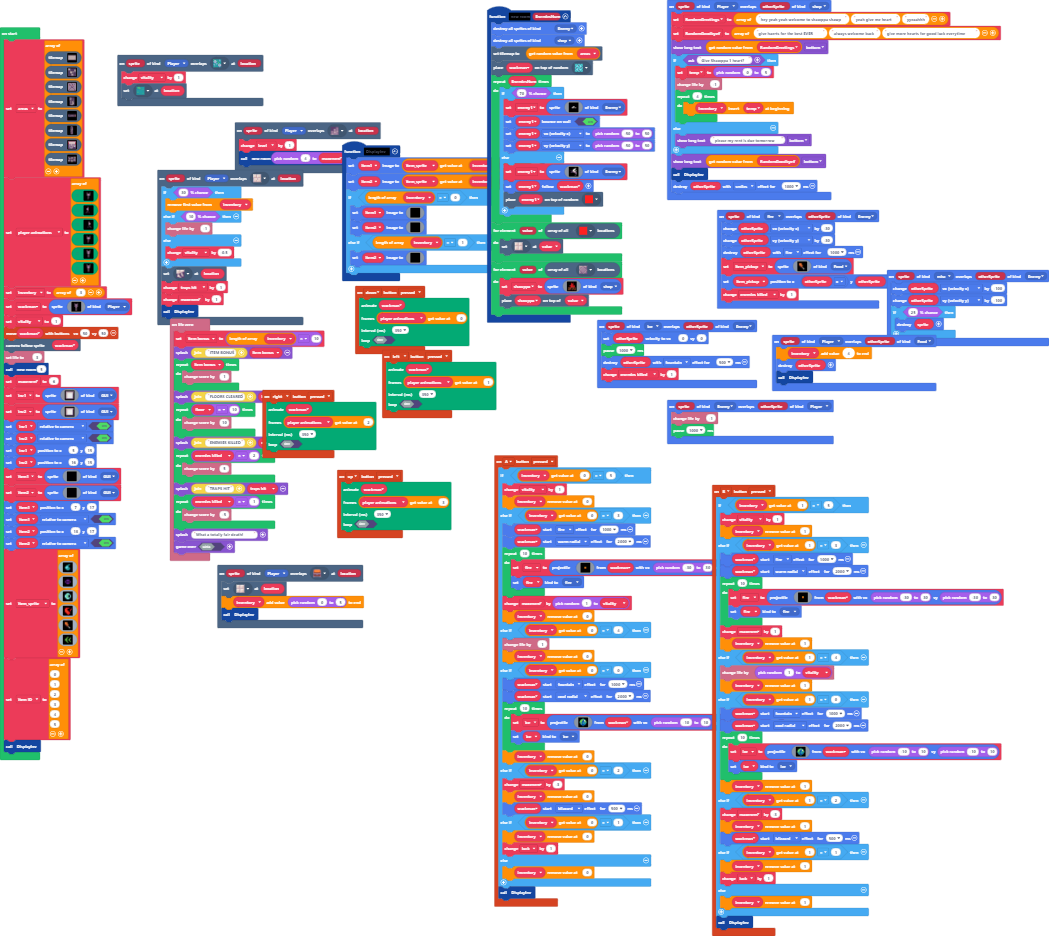
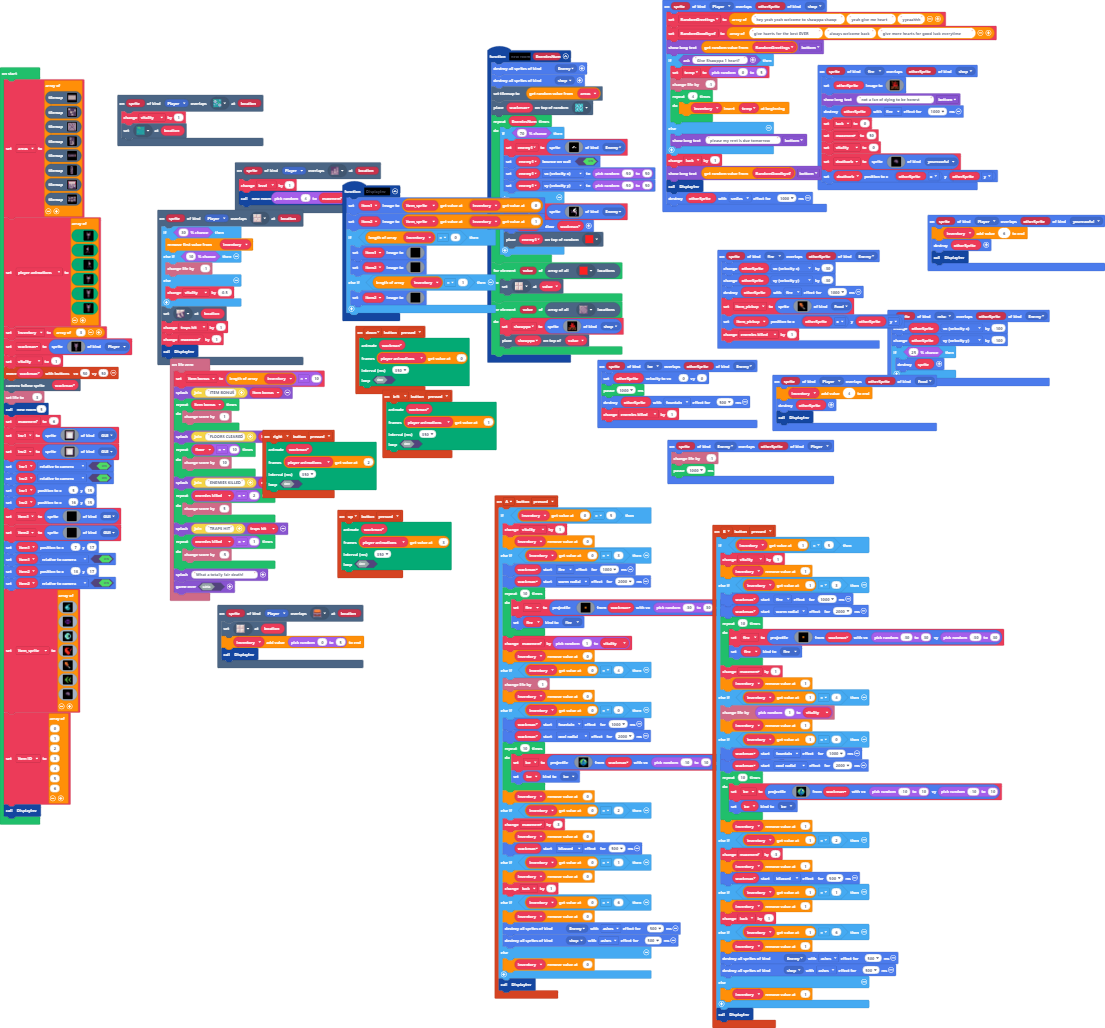
subatomic levels of trolling

diff --git a/main.ts b/main.ts
@@ -4,6 +4,7 @@ namespace SpriteKind {
     export const ice = SpriteKind.create()
     export const misc = SpriteKind.create()
     export const shop = SpriteKind.create()
+    export const youreawful = SpriteKind.create()
 }
 controller.up.onEvent(ControllerButtonEvent.Pressed, function () {
     animation.runImageAnimation(
@@ -26,6 +27,7 @@ sprites.onOverlap(SpriteKind.Player, SpriteKind.shop, function (sprite, otherSpr
     } else {
         game.showLongText("please my rent is due tomorrow", DialogLayout.Bottom)
     }
+    luck += 1
     game.showLongText(RandomGoodbyes._pickRandom(), DialogLayout.Bottom)
     DisplayInv()
     otherSprite.destroy(effects.smiles, 1000)
@@ -95,6 +97,10 @@ controller.B.onEvent(ControllerButtonEvent.Pressed, function () {
     } else if (inventory[1] == 1) {
         inventory.removeAt(1)
         luck += 1
+    } else if (inventory[1] == 6) {
+        inventory.removeAt(1)
+        sprites.destroyAllSpritesOfKind(SpriteKind.Enemy, effects.ashes, 500)
+        sprites.destroyAllSpritesOfKind(SpriteKind.shop, effects.ashes, 500)
     } else {
         inventory.removeAt(1)
     }
@@ -173,6 +179,10 @@ controller.A.onEvent(ControllerButtonEvent.Pressed, function () {
     } else if (inventory[0] == 1) {
         inventory.removeAt(0)
         luck += 1
+    } else if (inventory[0] == 6) {
+        inventory.removeAt(0)
+        sprites.destroyAllSpritesOfKind(SpriteKind.Enemy, effects.ashes, 500)
+        sprites.destroyAllSpritesOfKind(SpriteKind.shop, effects.ashes, 500)
     } else {
         inventory.removeAt(0)
     }
@@ -278,9 +288,24 @@ controller.down.onEvent(ControllerButtonEvent.Pressed, function () {
     false
     )
 })
+sprites.onOverlap(SpriteKind.fire, SpriteKind.shop, function (sprite, otherSprite) {
+    otherSprite.setImage(assets.image`shopkeep_man_death`)
+    game.showLongText("not a fan of dying to be honest", DialogLayout.Bottom)
+    otherSprite.destroy(effects.fire, 1000)
+    luck = 0
+    maxenem = 50
+    vitality = 0
+    deathorb = sprites.create(assets.image`death_orb`, SpriteKind.youreawful)
+    deathorb.setPosition(otherSprite.x, otherSprite.y)
+})
 scene.onOverlapTile(SpriteKind.Player, sprites.castle.tileDarkGrass2, function (sprite, location) {
     vitality += 1
     tiles.setTileAt(location, sprites.castle.tileDarkGrass3)
+})
+sprites.onOverlap(SpriteKind.Player, SpriteKind.youreawful, function (sprite, otherSprite) {
+    inventory.push(6)
+    otherSprite.destroy()
+    DisplayInv()
 })
 info.onLifeZero(function () {
     let floor = 0
@@ -363,11 +388,12 @@ let enemy1: Sprite = null
 let traps_hit = 0
 let level = 0
 let item_bonus = 0
+let deathorb: Sprite = null
 let enemies_killed = 0
 let item_pickup: Sprite = null
-let luck = 0
 let ice: Sprite = null
 let fire: Sprite = null
+let luck = 0
 let temp = 0
 let RandomGoodbyes: string[] = []
 let RandomGreetings: string[] = []
@@ -458,7 +484,8 @@ assets.image`myImage2`,
 assets.image`shield`,
 assets.image`myImage0`,
 assets.image`myImage4`,
-assets.image`myImage1`
+assets.image`myImage1`,
+assets.image`death_orb`
 ]
 let item_ID = [
 0,
@@ -466,6 +493,7 @@ let item_ID = [
 2,
 3,
 4,
-5
+5,
+6
 ]
 DisplayInv()

diff --git a/images.g.ts b/images.g.ts
@@ -169,6 +169,29 @@ c c c c c c c c c
 . . . . . . . . . . . . . . . . 
 . . . . . . . . . . . . . . . . 
 `;
+            case "image13":
+            case "shopkeep_man":return img`
+.....................
+........2....2.......
+........2....2.......
+........22..22.......
+........222222.......
+........222222.......
+........222222.......
+.......2f22222.2.....
+.....2222222f2.22....
+...ee222222222.222...
+........222222.222...
+........2222222222...
+......222222222222...
+eeeeee22eeeeeeeeeeeee
+fff4f4224feef4fefeffe
+f44efffef4f4fef4f4f4f
+fff4f4f4fffefef4f4fff
+44f4f4f4fefef4f4fef44
+fffefef4f4f4f4fef4f44
+44444efefef44fef44fe4
+`;
             case "image14":
             case "shopkeep_man_death":return img`
 ...........4.........
@@ -192,28 +215,17 @@ fff4f4f4fffefef4f4fff
 fffefef4f4f4f4fef4f44
 44444efefef44fef44fe4
 `;
-            case "image13":
-            case "shopkeep_man":return img`
-.....................
-........2....2.......
-........2....2.......
-........22..22.......
-........222222.......
-........222222.......
-........222222.......
-.......2f22222.2.....
-.....2222222f2.22....
-...ee222222222.222...
-........222222.222...
-........2222222222...
-......222222222222...
-eeeeee22eeeeeeeeeeeee
-fff4f4224feef4fefeffe
-f44efffef4f4fef4f4f4f
-fff4f4f4fffefef4f4fff
-44f4f4f4fefef4f4fef44
-fffefef4f4f4f4fef4f44
-44444efefef44fef44fe4
+            case "image15":
+            case "death_orb":return img`
+. . . . . . . . . 
+. . . f f f . . . 
+. . f c c c f . . 
+. f c b b b c f . 
+. f c c c b c f . 
+. f f f c c c f . 
+. . f f f f f . . 
+. . . f f f . . . 
+. . . . . . . . . 
 `;
         }
         return null;
